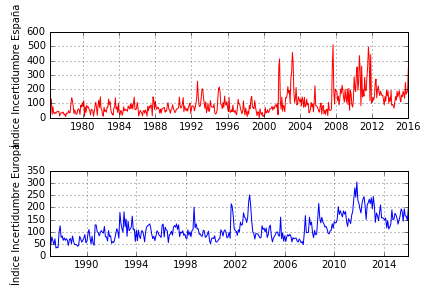
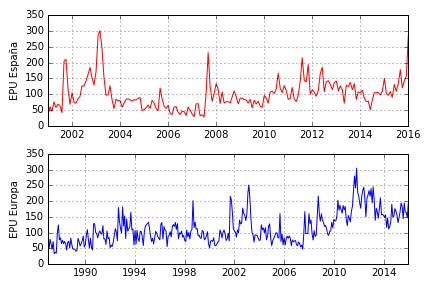
merged elpais with cincodias hoping to head more stable results :S

Changed region(s): [[0.0, 0.0, 0.9931, 1.0]]

diff --git a/elpais/computations.py b/elpais/computations.py
@@ -52,7 +52,10 @@ colnames = ['matches','eumatches','ingreso','gasto','money','sanidad','seguridad
 #test 2
 
 def load_es_uncertainty():
+    '''
+    define policy (aggregate, EPU), economia (aggregate, EU), elpais (El Pais only, EPU), cinco (cinco dias only, EPU)
     
+    '''
     ## load cinco dias data
     df_cd = pd.read_csv(os.path.join(rootdir,'cincodias','daily_data.csv'),parse_dates = True,index_col=0)
     df_cd = df_cd.resample("M", how='sum')
@@ -63,10 +66,22 @@ def load_es_uncertainty():
     df_new = pd.read_csv(os.path.join(rootdir,'elpais','daily_data_economia_new.csv'),parse_dates = True,index_col=0)
     df_ec = pd.concat([df_ec,df_new])
     d = df_ec.resample("M", how='sum')
-    d['economia'] = d.matches / d.articles#d.words
     d.index = d.index.map(lambda t: t.replace(year=t.year, month=t.month, day=1))
+    for x in colnames + ['articles','words']:
+        d['ep_'+x] = d[x]
+        d['cd_'+x] = df_cd[x]
+        d[x] = d[x] + df_cd[x]
+
+    d['economia'] = d.eumatches / d.articles#d.words
+    d['economia'] = d['economia'] /d['economia'].mean()*100
     
+    d['policy'] =  d.matches / d.articles
+    d['policy'] = d['policy'] / d['policy'].mean()*100    
+    
+    d['elpais'] = d['ep_matches'] / d['ep_articles']
+    d['elpais'] = d['elpais'] / d['elpais'].mean()*100
     d['cinco'] = df_cd.matches / df_cd.articles
+    d['cinco'] = d['cinco'] /d['cinco'].mean()*100
     '''
     d.density = d.words  / d.articles
     ax = d.density.plot( title = "articles get longer", figsize = (6,4), grid = True )
@@ -92,24 +107,12 @@ def load_eu_uncertainty():
 
 def plot_index_comparison(nd):
     fig = plt.figure(1,[8,6])
-#    ax = fig.add_subplot(111)
-#    left = ax.plot(nd['economia']/nd['economia'].mean()*100, 'r', label=u'España')
-#    ax2 = ax.twinx()
-#    rite = ax2.plot(nd['euro_news'], 'g', label='Europa')
-#    ax.set_ylabel("Índice Incertidumbre España".decode('utf8')) #,{'fontsize': 12}
-#    ax2.set_ylabel("Índice Incertidumbre Europa".decode('utf8'))
-#    
-#    lns = left + rite
-#    labs = [l.get_label() for l in lns]
-#    ax.legend(lns, labs, loc=0)
-#    ax.grid()
-#    fig.tight_layout()
     ax = fig.add_subplot(211)
-    ax.plot(nd['economia']/nd['economia'].mean()*100, 'r', label=u'España')
+    ax.plot(nd['policy'], 'r', label=u'España')
     ax2 = fig.add_subplot(212)
     ax2.plot(nd['euro_news'], 'b', label='Europa')
-    ax.set_ylabel("Índice Incertidumbre España".decode('utf8'))
-    ax2.set_ylabel("Índice Incertidumbre Europa".decode('utf8'))
+    ax.set_ylabel("EPU España".decode('utf8'))
+    ax2.set_ylabel("EPU Europa".decode('utf8'))
     ax.grid()
     ax2.grid()    
     fig.tight_layout()
@@ -118,26 +121,13 @@ def plot_index_comparison(nd):
     
 def plot_eu_epu(nd):
     fig = plt.figure(2,[8,6])
-    nd['policy'] =  nd.eumatches / nd.articles
-    nd['policy'] = nd['policy'] / nd['policy'].mean()*100
-    nd['econ_based'] = nd['economia']/nd['economia'].mean()*100
-#    ax = fig.add_subplot(111)
-#    left = ax.plot(nd['policy'], 'r', label='Política'.decode('utf8'))
-#    ax2 = ax.twinx()
-#    rite = ax2.plot(nd['econ_based'], 'g', label='General')
-#    ax.set_ylabel("Índice Incertidumbre (Política) España".decode('utf8')) #,{'fontsize': 12}
-#    ax2.set_ylabel("Índice Incertidumbre (General) España".decode('utf8'))
-#    
-#    lns = left + rite
-#    labs = [l.get_label() for l in lns]
-#    ax.legend(lns, labs, loc=0)
 
     ax = fig.add_subplot(211)
-    ax.plot(nd['econ_based'], 'r', label='General'.decode('utf8'))
+    ax.plot(nd['economia'], 'r', label='General'.decode('utf8'))
     ax2 = fig.add_subplot(212)
     ax2.plot(nd['policy'], 'b', label='Política'.decode('utf8'))
-    ax.set_ylabel("Índice Incertidumbre (General) España".decode('utf8')) #,{'fontsize': 12}
-    ax2.set_ylabel("Índice Incertidumbre (Política) España".decode('utf8'))
+    ax.set_ylabel("EU (General) España".decode('utf8')) #,{'fontsize': 12}
+    ax2.set_ylabel("EPU (Política) España".decode('utf8'))
     ax.grid()
     ax2.grid()    
     fig.tight_layout()
@@ -147,8 +137,8 @@ def plot_eu_epu(nd):
 def plot_cinco_elpais(nd):
     fig = plt.figure(3,[8,6])
     ax = fig.add_subplot(211)
-    y1 = nd['economia']/nd['economia'].mean()*100
-    y2 = nd['cinco'] / nd['cinco'].mean()*100
+    y1 = nd['elpais']
+    y2 = nd['cinco'] 
     ax.plot(y1['20010101':], 'r', label=u'El Pais')
     ax2 = fig.add_subplot(212)
     ax2.plot(y2['20010101':], 'b', label=u'Cinco Días')
@@ -168,17 +158,17 @@ def transform_data(nd):
     nd['fedea'] = nd['FEEA.PURE064A.M.ES'].diff(periods = 1)
     '''
     '''
-    result = ols(y=nd['economia'], x=nd[['cv']])
+    result = ols(y=nd['policy'], x=nd[['cv']])
     nd['resid'] = result.resid.diff(periods = 1)
-    nd['raw'] = nd['economia'].diff(periods = 1)
+    nd['raw'] = nd['policy'].diff(periods = 1)
     nd['vol'] = nd['cv'].diff(periods = 1)
     return nd
 
 def get_quarterly_regressors():
     df_eu = load_eu_uncertainty()
     df_es = load_es_uncertainty()
-    df_es['epu'] = df_es.matches / df_es.articles
-    df_es['epu'] = df_es['epu'] / df_es['epu'].mean() *100
+
+    df_es['epu'] = df_es['policy']
     nd = df_eu.join(df_es)
     nd = nd.resample("6M", how='mean')
     
@@ -221,9 +211,8 @@ def estimate_VAR():
     nd = transform_data(nd)
     
     benchmark_subset = ['EPU','europe', 'fedea', 'inflation', 'differential'] 
-    nd['EPU'] = nd['matches'] / nd.articles
-    nd['EPU'] = nd['EPU'] / nd['EPU'].mean() * 100
-    nd['EPU'] = nd['EPU'].diff(periods = 1)
+
+    nd['EPU'] = nd['policy'].diff(periods = 1)
     data = nd.reindex(columns=benchmark_subset)
     data = data.dropna()
     data.describe()
@@ -266,7 +255,7 @@ def estimate_VAR():
         nd['uncert'] = nd['uncert'].diff(periods = 1)
         subset = ['uncert','europe', 'fedea', 'inflation', 'differential' ]
         cum_effect= get_irf(nd, subset)
-        print '%s | %d | %.04f' % (colname, nd[colname].sum(), 100*fedea_on_gdp*cum_effect)
+        print '**%s** | %d | %.04f' % (colname, nd[colname].sum(), 100*fedea_on_gdp*cum_effect)
     
     aa = d.mean()[colnames]
     plt.figure(6)

diff --git a/README.md b/README.md
@@ -190,21 +190,23 @@ We run the same specification for the EPU, EU, and each of the uncertainty varia
 
 Concept | Count | Effect on GDP (1 std negative shock)
 --- | --- | ---
-**Econ policy** | 5288 | -0.1915
-**Econ general** | 6758 | -0.2120
-**ingreso** | 1466 | 0.0554
-**gasto** | 2624 | -0.1484
-**money** | 2331 | -0.1737
-**sanidad** | 396 | 0.0098
-**seguridad** | 241 | -0.0230
-**banca** | 292 | -0.3521
-**othregula** | 1842 | -0.2853
-**deuda** | 1491 | -0.0896
-**bienestar** | 549 | -0.0068
-**arancel** | 136 | -0.0049
-**autonomia** | 337 | 0.1405
-**fiscal** | 3129 | -0.1306
-**regula** | 1986 | -0.3093
+**Econ policy** | 8975 | -0.1967
+**Econ general** | 11897 | -0.1982
+**ingreso** | 2636 | -0.0733
+**gasto** | 4430 | -0.1405
+**money** | 3931 | -0.1295
+**sanidad** | 652 | 0.0844
+**seguridad** | 468 | -0.1213
+**banca** | 613 | -0.0163
+**othregula** | 3123 | -0.1591
+**deuda** | 2503 | 0.0672
+**bienestar** | 775 | 0.1387
+**arancel** | 106 | -0.3033
+**autonomia** | 534 | -0.1335
+**fiscal** | 5480 | -0.1108
+**regula** | 3429 | -0.1556
+
+
 
 ### Firm-level data
 
